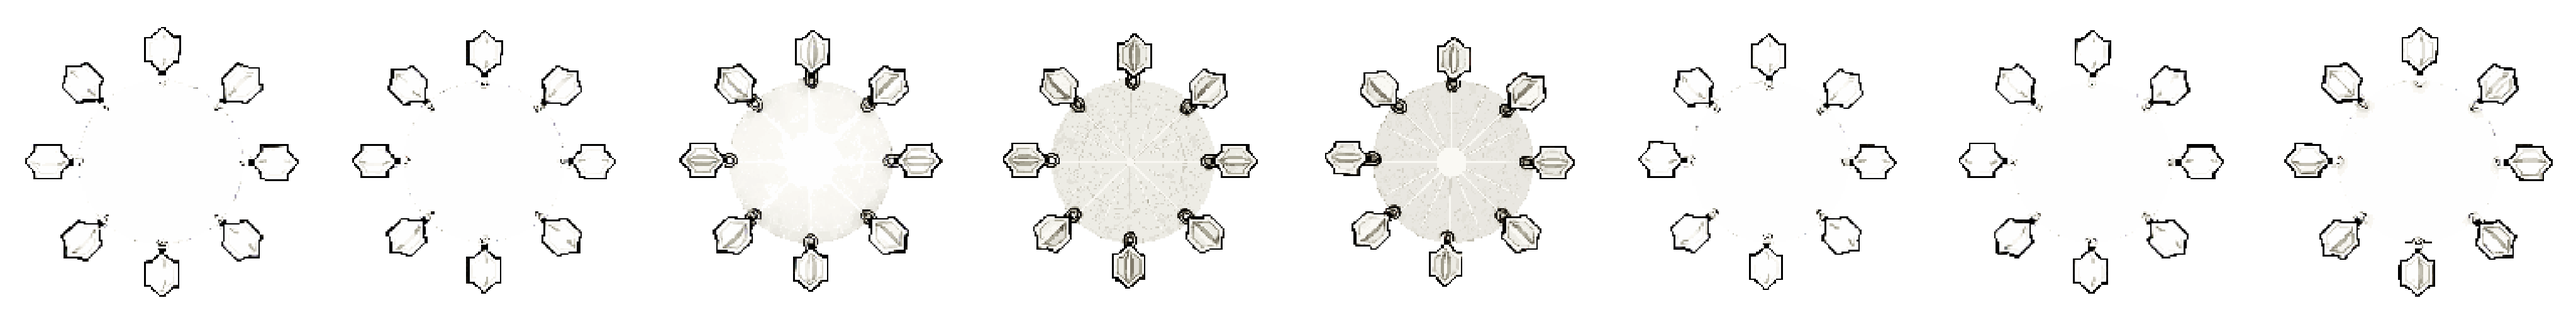
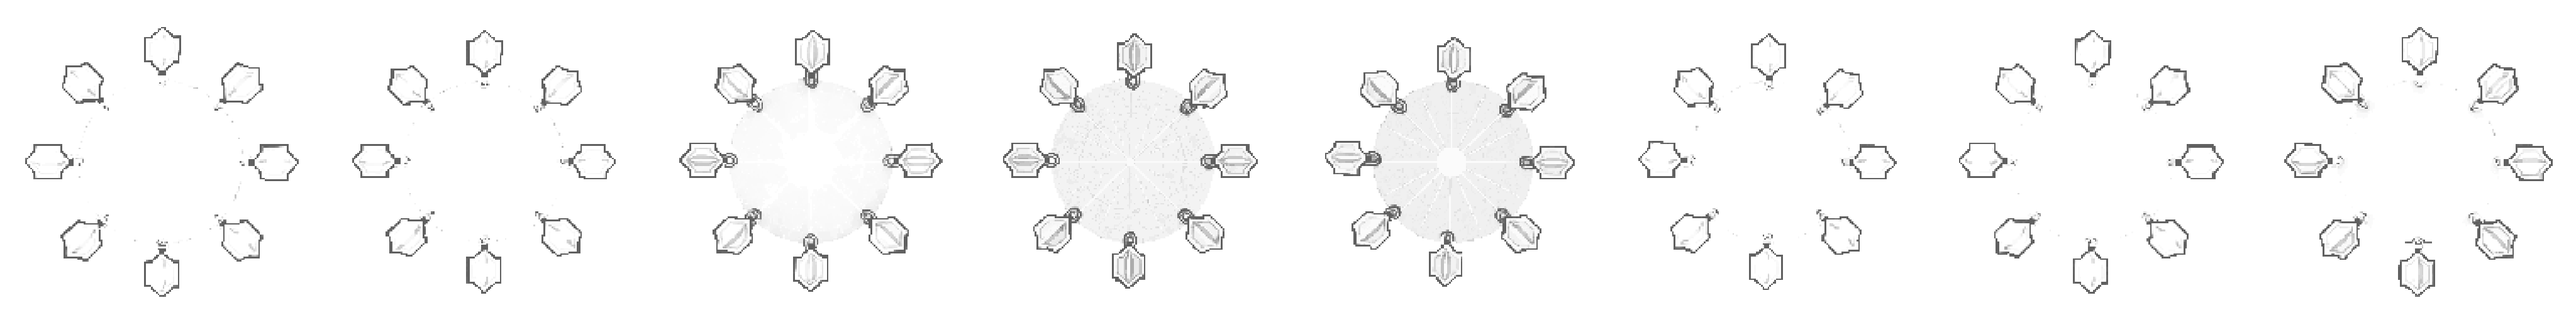
feat(art): the Metronome, the Unbroken and the Falling Tower get their five — and white is enforced, not hoped for
30 of 50 per-character effects. The Metronome swings a pendulum, ticks a chevron, closes a clock ring
and turns a dial of bars; the Unbroken splits a crack, tumbles a shard, knits a broken ring shut and
presses a shell of plates together; the Falling Tower drives a wedge, rolls a boulder, snaps a square
brace, cracks a ring of paving and stacks a column.

── COLOUR IS A PIPELINE PROPERTY NOW, NOT A PROMPT'S PROMISE ──────────────────────────────────────

The contract authors effects white/pale because the casting skill's Source TINT multiplies over them
at play time: the shape says who cast it, the colour says what it is made of (§3.3). The generator
does not reliably obey — the Seeker's first trap arrived in gold, the Metronome's tick bars in blue —
and the answer so far had been to re-roll until it behaved, which costs a generation each time and
still guarantees nothing.

`rhart.py whiten` takes the luminance and lifts it so the darkest surviving pixel is 96, writing it
back over the same alpha, and `fxclips.py` runs it on every strip it files. "Authored white/pale" is
now a property of the pipeline. The twenty-four strips filed before this change were whitened in
place, so the whole set matches.

── AND ONE MORE THING THE PREVIEWS WERE HIDING ────────────────────────────────────────────────────

The inline previews render on WHITE, so a correctly-authored white-on-transparent effect looks like
[…]

diff --git a/tools/asset-pipeline/v2/rhart.py b/tools/asset-pipeline/v2/rhart.py
@@ -230,6 +230,31 @@ def gate(path: str, effect: bool = False, loose: bool = False, thrown: bool = Fa
     return problems
 
 
+def whiten(path: str, floor: int = 96) -> str:
+    """Strip an effect strip's colour, keeping its shape and its alpha.
+
+    The contract authors effects WHITE/PALE because the casting skill's Source tint multiplies over
+    them at play time: the shape says who cast it, the colour says what it is made of
+    (arena-art-contract.md §3.3). A generated effect does not reliably come back colourless -- the
+    Seeker's first trap arrived in gold and the Metronome's tick bars in blue -- and re-rolling until
+    the generator happens to behave costs a generation each time and never actually guarantees it.
+
+    So the rule is enforced here instead of hoped for: luminance, lifted so the darkest surviving
+    pixel is `floor`, written back over the same alpha. Applied to every effect strip as it is filed,
+    which makes "authored white/pale" a property of the pipeline rather than of the prompt.
+    """
+    im = load_rgba(path)
+    lum = im.convert("L")
+    lo, hi = lum.getextrema()
+    if hi > lo:
+        # Lift the ramp into [floor, 255] so a dark-ish generated effect still reads as pale.
+        scale = (255 - floor) / (hi - lo)
+        lum = lum.point(lambda v: min(255, int(floor + (v - lo) * scale)))
+    out = Image.merge("RGBA", (lum, lum, lum, im.getchannel("A")))
+    out.save(path)
+    return path
+
+
 # ── review sheet ────────────────────────────────────────────────────────────────────────────────
 
 def sheet(out: str, paths: list[str], cell: int = 160, label: bool = True) -> str:
@@ -292,6 +317,8 @@ def main(argv: list[str]) -> int:
     sh.add_argument("--cell", type=int, default=160)
     st = sub.add_parser("static"); st.add_argument("strip"); st.add_argument("out"); st.add_argument("--index", type=int, default=0)
     inf = sub.add_parser("info"); inf.add_argument("paths", nargs="+")
+    wh = sub.add_parser("whiten"); wh.add_argument("paths", nargs="+")
+    wh.add_argument("--floor", type=int, default=96)
 
     a = ap.parse_args(argv)
     if a.cmd == "fetch":
@@ -311,6 +338,10 @@ def main(argv: list[str]) -> int:
         print(sheet(a.out, a.paths, a.cell)); return 0
     if a.cmd == "static":
         print(static_from(a.strip, a.out, a.index)); return 0
+    if a.cmd == "whiten":
+        for p in a.paths:
+            print(whiten(p, a.floor))
+        return 0
     if a.cmd == "info":
         for p in a.paths:
             im = load_rgba(p); b = bbox(im)

diff --git a/tools/asset-pipeline/v2/fxclips.py b/tools/asset-pipeline/v2/fxclips.py
@@ -37,7 +37,13 @@ def run(char: str, form: str, job: str) -> tuple[str, bool, str]:
          "--job", job, "--out", out, "--effect"],
         capture_output=True, text=True)
     tail = (p.stdout or p.stderr).strip().splitlines()
-    return form, p.returncode == 0, tail[-1] if tail else "(no output)"
+    ok = p.returncode == 0
+    if ok:
+        # Enforce the white/pale rule mechanically rather than hoping the generator obeys it — see
+        # rhart.whiten. Doing it here means every filed effect is tint-ready by construction.
+        subprocess.run([sys.executable, os.path.join(HERE, "rhart.py"), "whiten", out],
+                       capture_output=True, text=True)
+    return form, ok, tail[-1] if tail else "(no output)"
 
 
 def main(argv: list[str]) -> int:
